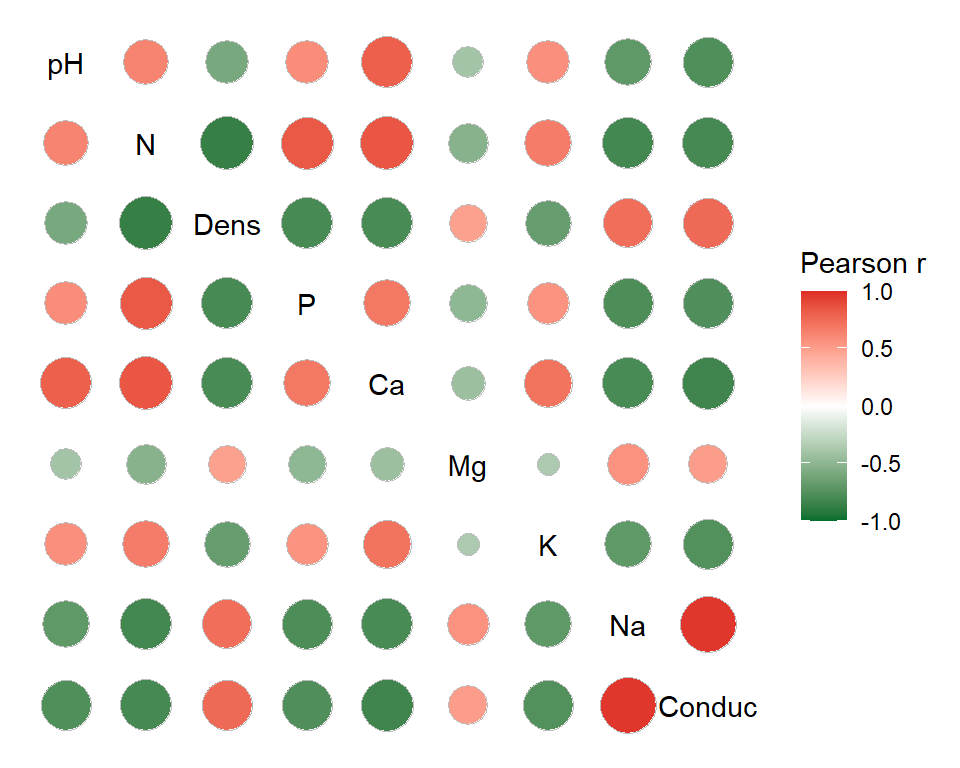
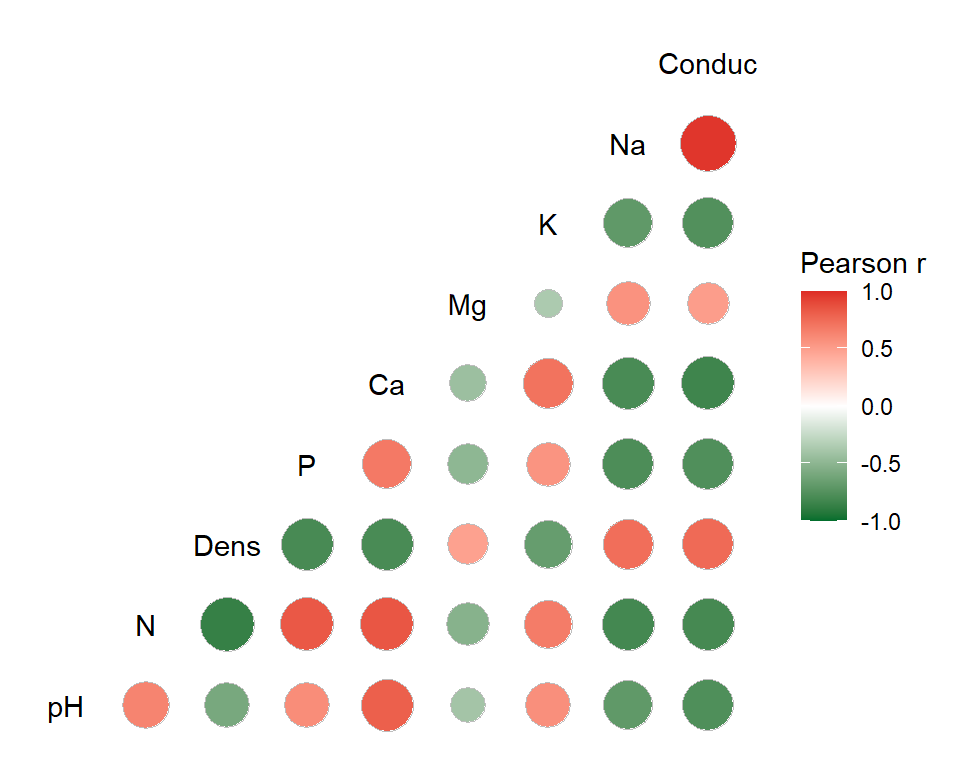
u

diff --git a/_posts/2026-02-17-post-43-pair-them-upcreating-scatterplot-and-correlation-matrices-in-ggplots/post-43-pair-them-upcreating-scatterplot-and-correlation-matrices-in-ggplots.html b/_posts/2026-02-17-post-43-pair-them-upcreating-scatterplot-and-correlation-matrices-in-ggplots/post-43-pair-them-upcreating-scatterplot-and-correlation-matrices-in-ggplots.html
@@ -119,7 +119,7 @@ code span.wa { color: #5e5e5e; font-style: italic; } /* Warning */
   <!--/radix_placeholder_rmarkdown_metadata-->
   
   <script type="text/json" id="radix-resource-manifest">
-  {"type":"character","attributes":{},"value":["post-43-pair-them-upcreating-scatterplot-and-correlation-matrices-in-ggplots_files/anchor-4.2.2/anchor.min.js","post-43-pair-them-upcreating-scatterplot-and-correlation-matrices-in-ggplots_files/bowser-1.9.3/bowser.min.js","post-43-pair-them-upcreating-scatterplot-and-correlation-matrices-in-ggplots_files/distill-2.2.21/template.v2.js","post-43-pair-them-upcreating-scatterplot-and-correlation-matrices-in-ggplots_files/figure-html5/unnamed-chunk-2-1.png","post-43-pair-them-upcreating-scatterplot-and-correlation-matrices-in-ggplots_files/figure-html5/unnamed-chunk-2-2.png","post-43-pair-them-upcreating-scatterplot-and-correlation-matrices-in-ggplots_files/header-attrs-2.30/header-attrs.js","post-43-pair-them-upcreating-scatterplot-and-correlation-matrices-in-ggplots_files/jquery-3.6.0/jquery-3.6.0.js","post-43-pair-them-upcreating-scatterplot-and-correlation-matrices-in-ggplots_files/jquery-3.6.0/jquery-3.6.0.min.js","post-43-pair-them-upcreating-scatterplot-and-correlation-matrices-in-ggplots_files/jquery-3.6.0/jquery-3.6.0.min.map","post-43-pair-them-upcreating-scatterplot-and-correlation-matrices-in-ggplots_files/popper-2.6.0/popper.min.js","post-43-pair-them-upcreating-scatterplot-and-correlation-matrices-in-ggplots_files/tippy-6.2.7/tippy-bundle.umd.min.js","post-43-pair-them-upcreating-scatterplot-and-correlation-matrices-in-ggplots_files/tippy-6.2.7/tippy-light-border.css","post-43-pair-them-upcreating-scatterplot-and-correlation-matrices-in-ggplots_files/tippy-6.2.7/tippy.css","post-43-pair-them-upcreating-scatterplot-and-correlation-matrices-in-ggplots_files/tippy-6.2.7/tippy.umd.min.js","post-43-pair-them-upcreating-scatterplot-and-correlation-matrices-in-ggplots_files/webcomponents-2.0.0/webcomponents.js"]}
+  {"type":"character","attributes":{},"value":["post-43-pair-them-upcreating-scatterplot-and-correlation-matrices-in-ggplots_files/anchor-4.2.2/anchor.min.js","post-43-pair-them-upcreating-scatterplot-and-correlation-matrices-in-ggplots_files/bowser-1.9.3/bowser.min.js","post-43-pair-them-upcreating-scatterplot-and-correlation-matrices-in-ggplots_files/distill-2.2.21/template.v2.js","post-43-pair-them-upcreating-scatterplot-and-correlation-matrices-in-ggplots_files/figure-html5/unnamed-chunk-2-1.png","post-43-pair-them-upcreating-scatterplot-and-correlation-matrices-in-ggplots_files/figure-html5/unnamed-chunk-2-2.png","post-43-pair-them-upcreating-scatterplot-and-correlation-matrices-in-ggplots_files/figure-html5/unnamed-chunk-3-1.png","post-43-pair-them-upcreating-scatterplot-and-correlation-matrices-in-ggplots_files/header-attrs-2.30/header-attrs.js","post-43-pair-them-upcreating-scatterplot-and-correlation-matrices-in-ggplots_files/jquery-3.6.0/jquery-3.6.0.js","post-43-pair-them-upcreating-scatterplot-and-correlation-matrices-in-ggplots_files/jquery-3.6.0/jquery-3.6.0.min.js","post-43-pair-them-upcreating-scatterplot-and-correlation-matrices-in-ggplots_files/jquery-3.6.0/jquery-3.6.0.min.map","post-43-pair-them-upcreating-scatterplot-and-correlation-matrices-in-ggplots_files/popper-2.6.0/popper.min.js","post-43-pair-them-upcreating-scatterplot-and-correlation-matrices-in-ggplots_files/tippy-6.2.7/tippy-bundle.umd.min.js","post-43-pair-them-upcreating-scatterplot-and-correlation-matrices-in-ggplots_files/tippy-6.2.7/tippy-light-border.css","post-43-pair-them-upcreating-scatterplot-and-correlation-matrices-in-ggplots_files/tippy-6.2.7/tippy.css","post-43-pair-them-upcreating-scatterplot-and-correlation-matrices-in-ggplots_files/tippy-6.2.7/tippy.umd.min.js","post-43-pair-them-upcreating-scatterplot-and-correlation-matrices-in-ggplots_files/webcomponents-2.0.0/webcomponents.js"]}
   </script>
   <!--radix_placeholder_navigation_in_header-->
   <!--/radix_placeholder_navigation_in_header-->
@@ -1671,29 +1671,41 @@ div.l-body img {
 <span>         high <span class='op'>=</span> <span class='st'>"#de2d26"</span>,  <span class='co'># the color for the upper limit</span></span>
 <span>         mid <span class='op'>=</span> <span class='st'>"white"</span>,  <span class='co'># the color for the midpoint</span></span>
 <span>         low <span class='op'>=</span> <span class='st'>"#006d2c"</span>,  <span class='co'># the color for the lower limit</span></span>
-<span>         mode <span class='op'>=</span> <span class='fl'>21</span>,  <span class='co'># the shape of the cell </span></span>
-<span>         include_diag <span class='op'>=</span> <span class='cn'>F</span><span class='op'>)</span>  <span class='co'># remove the diagonal cells </span></span></code></pre>
+<span>         mode <span class='op'>=</span> <span class='fl'>21</span>,  <span class='co'># the shape of the cell (a number between 1 to 25)</span></span>
+<span>         include_diag <span class='op'>=</span> <span class='cn'>F</span>,  <span class='co'># remove the diagonal cells</span></span>
+<span>         size_range <span class='op'>=</span> <span class='fu'><a href='https://rdrr.io/r/base/c.html'>c</a></span><span class='op'>(</span><span class='fl'>5</span>, <span class='fl'>10</span><span class='op'>)</span>,  <span class='co'># the range of cell size</span></span>
+<span>         layout <span class='op'>=</span> <span class='st'>"bottomright"</span>,<span class='op'>)</span>  <span class='co'># show only the bottom-right trianglular matrix     </span></span></code></pre>
 </div>
 <p><img src="post-43-pair-them-upcreating-scatterplot-and-correlation-matrices-in-ggplots_files/figure-html5/unnamed-chunk-2-2.png" alt="" width="480" style="display: block; margin: auto;" /></p>
 </div>
-<p>Looks like there are some strong positive correlations (e.g., between Na and Conductance and between N and P) and some strong negative ones (e.g., between N and Density and between P and Density). So what are the actual coefficients (and their significance)?</p>
+<p>Looks like there are some strong positive correlations (e.g., between Na and Conductance and between N and P) and some strong negative ones (e.g., between N and Density and between P and Density). But what are the actual coefficients (and their significance)?</p>
 <h3 id="a-mixed-layout">(2) A mixed layout</h3>
+<p><code>ggcorrhm()</code> allows users to create correlation heatmaps with a mixed layout. To do so, we first have to tell the function that we want two triangular matrices, using the “layout” argument. We will also need to specify what we would like to display in these two triangular matrices using the “mode” argument: “heatmap” gives the colored cells, whereas “none” gives empty cells. Next, we can use the “p_values” argument to specify whether we would like to display the significance stars in each of the two triangular matrices. Finally, we can use the “cell_labels” argument to specify whether we would like to display the correlation coefficients in each of the two triangular matrices.</p>
 <div class="layout-chunk" data-layout="l-body">
 <div class="sourceCode">
-<pre class="sourceCode r"><code class="sourceCode r"><span><span class='co'>### Mixed layout</span></span>
-<span><span class='co'># change layout</span></span>
-<span><span class='co'># tile + p-values + significance stars</span></span>
-<span><span class='co'># change the labels</span></span></code></pre>
+<pre class="sourceCode r"><code class="sourceCode r"><span><span class='co'>### A mixed layout with color cells and p-values</span></span>
+<span><span class='fu'><a href='https://leod123.github.io/ggcorrheatmap/reference/ggcorrhm.html'>ggcorrhm</a></span><span class='op'>(</span><span class='va'>Soils_continuous</span>,</span>
+<span>         layout <span class='op'>=</span> <span class='fu'><a href='https://rdrr.io/r/base/c.html'>c</a></span><span class='op'>(</span><span class='st'>"topleft"</span>, <span class='st'>"bottomright"</span><span class='op'>)</span>,  <span class='co'># create two triangular matrices</span></span>
+<span>         mode <span class='op'>=</span> <span class='fu'><a href='https://rdrr.io/r/base/c.html'>c</a></span><span class='op'>(</span><span class='st'>"heatmap"</span>, <span class='st'>"none"</span><span class='op'>)</span>,  <span class='co'># what to display in each of the two triangular matrices</span></span>
+<span>         include_diag <span class='op'>=</span> <span class='cn'>T</span>,</span>
+<span>         p_values <span class='op'>=</span> <span class='fu'><a href='https://rdrr.io/r/base/c.html'>c</a></span><span class='op'>(</span><span class='cn'>F</span>, <span class='cn'>T</span><span class='op'>)</span>,  <span class='co'># whether to show the significance stars in each of two triangular matrices</span></span>
+<span>         p_adjust <span class='op'>=</span> <span class='st'>"none"</span>,  <span class='co'># can be any of the method in "p.adjust.methods"</span></span>
+<span>         p_thresholds <span class='op'>=</span> <span class='fu'><a href='https://rdrr.io/r/base/c.html'>c</a></span><span class='op'>(</span><span class='st'>"***"</span> <span class='op'>=</span> <span class='fl'>0.001</span>, <span class='st'>"**"</span> <span class='op'>=</span> <span class='fl'>0.01</span>, <span class='st'>"*"</span> <span class='op'>=</span> <span class='fl'>0.05</span>, <span class='fl'>1</span><span class='op'>)</span>,  <span class='co'># thresholds for annotating the significance stars</span></span>
+<span>         cell_labels <span class='op'>=</span> <span class='fu'><a href='https://rdrr.io/r/base/c.html'>c</a></span><span class='op'>(</span><span class='cn'>T</span>, <span class='cn'>F</span><span class='op'>)</span><span class='op'>)</span>  <span class='co'># whether to show the correlation coefficients in each of two triangular matrices</span></span></code></pre>
 </div>
+<p><img src="post-43-pair-them-upcreating-scatterplot-and-correlation-matrices-in-ggplots_files/figure-html5/unnamed-chunk-3-1.png" alt="" width="480" style="display: block; margin: auto;" /></p>
 </div>
-<h3 id="section">(3)</h3>
+<p>All correlation coefficients are significant (without <em>p</em>-value adjustment)!!!</p>
+<h3 id="highlight-certain-cells">(3) Highlight certain cells</h3>
 <div class="layout-chunk" data-layout="l-body">
 <div class="sourceCode">
-<pre class="sourceCode r"><code class="sourceCode r"><span><span class='co'>### Modify cell appearance</span></span>
-<span><span class='co'># highlight cell border</span></span>
-<span></span>
-<span></span>
-<span><span class='co'>### Cluster the variables and add annotation</span></span></code></pre>
+<pre class="sourceCode r"><code class="sourceCode r"><span><span class='co'>### Modify the appearance of certain cells </span></span></code></pre>
+</div>
+</div>
+<h3 id="section">(4)</h3>
+<div class="layout-chunk" data-layout="l-body">
+<div class="sourceCode">
+<pre class="sourceCode r"><code class="sourceCode r"><span><span class='co'>### Cluster the variables and add annotation</span></span></code></pre>
 </div>
 </div>
 <h2 id="summary">Summary</h2>
